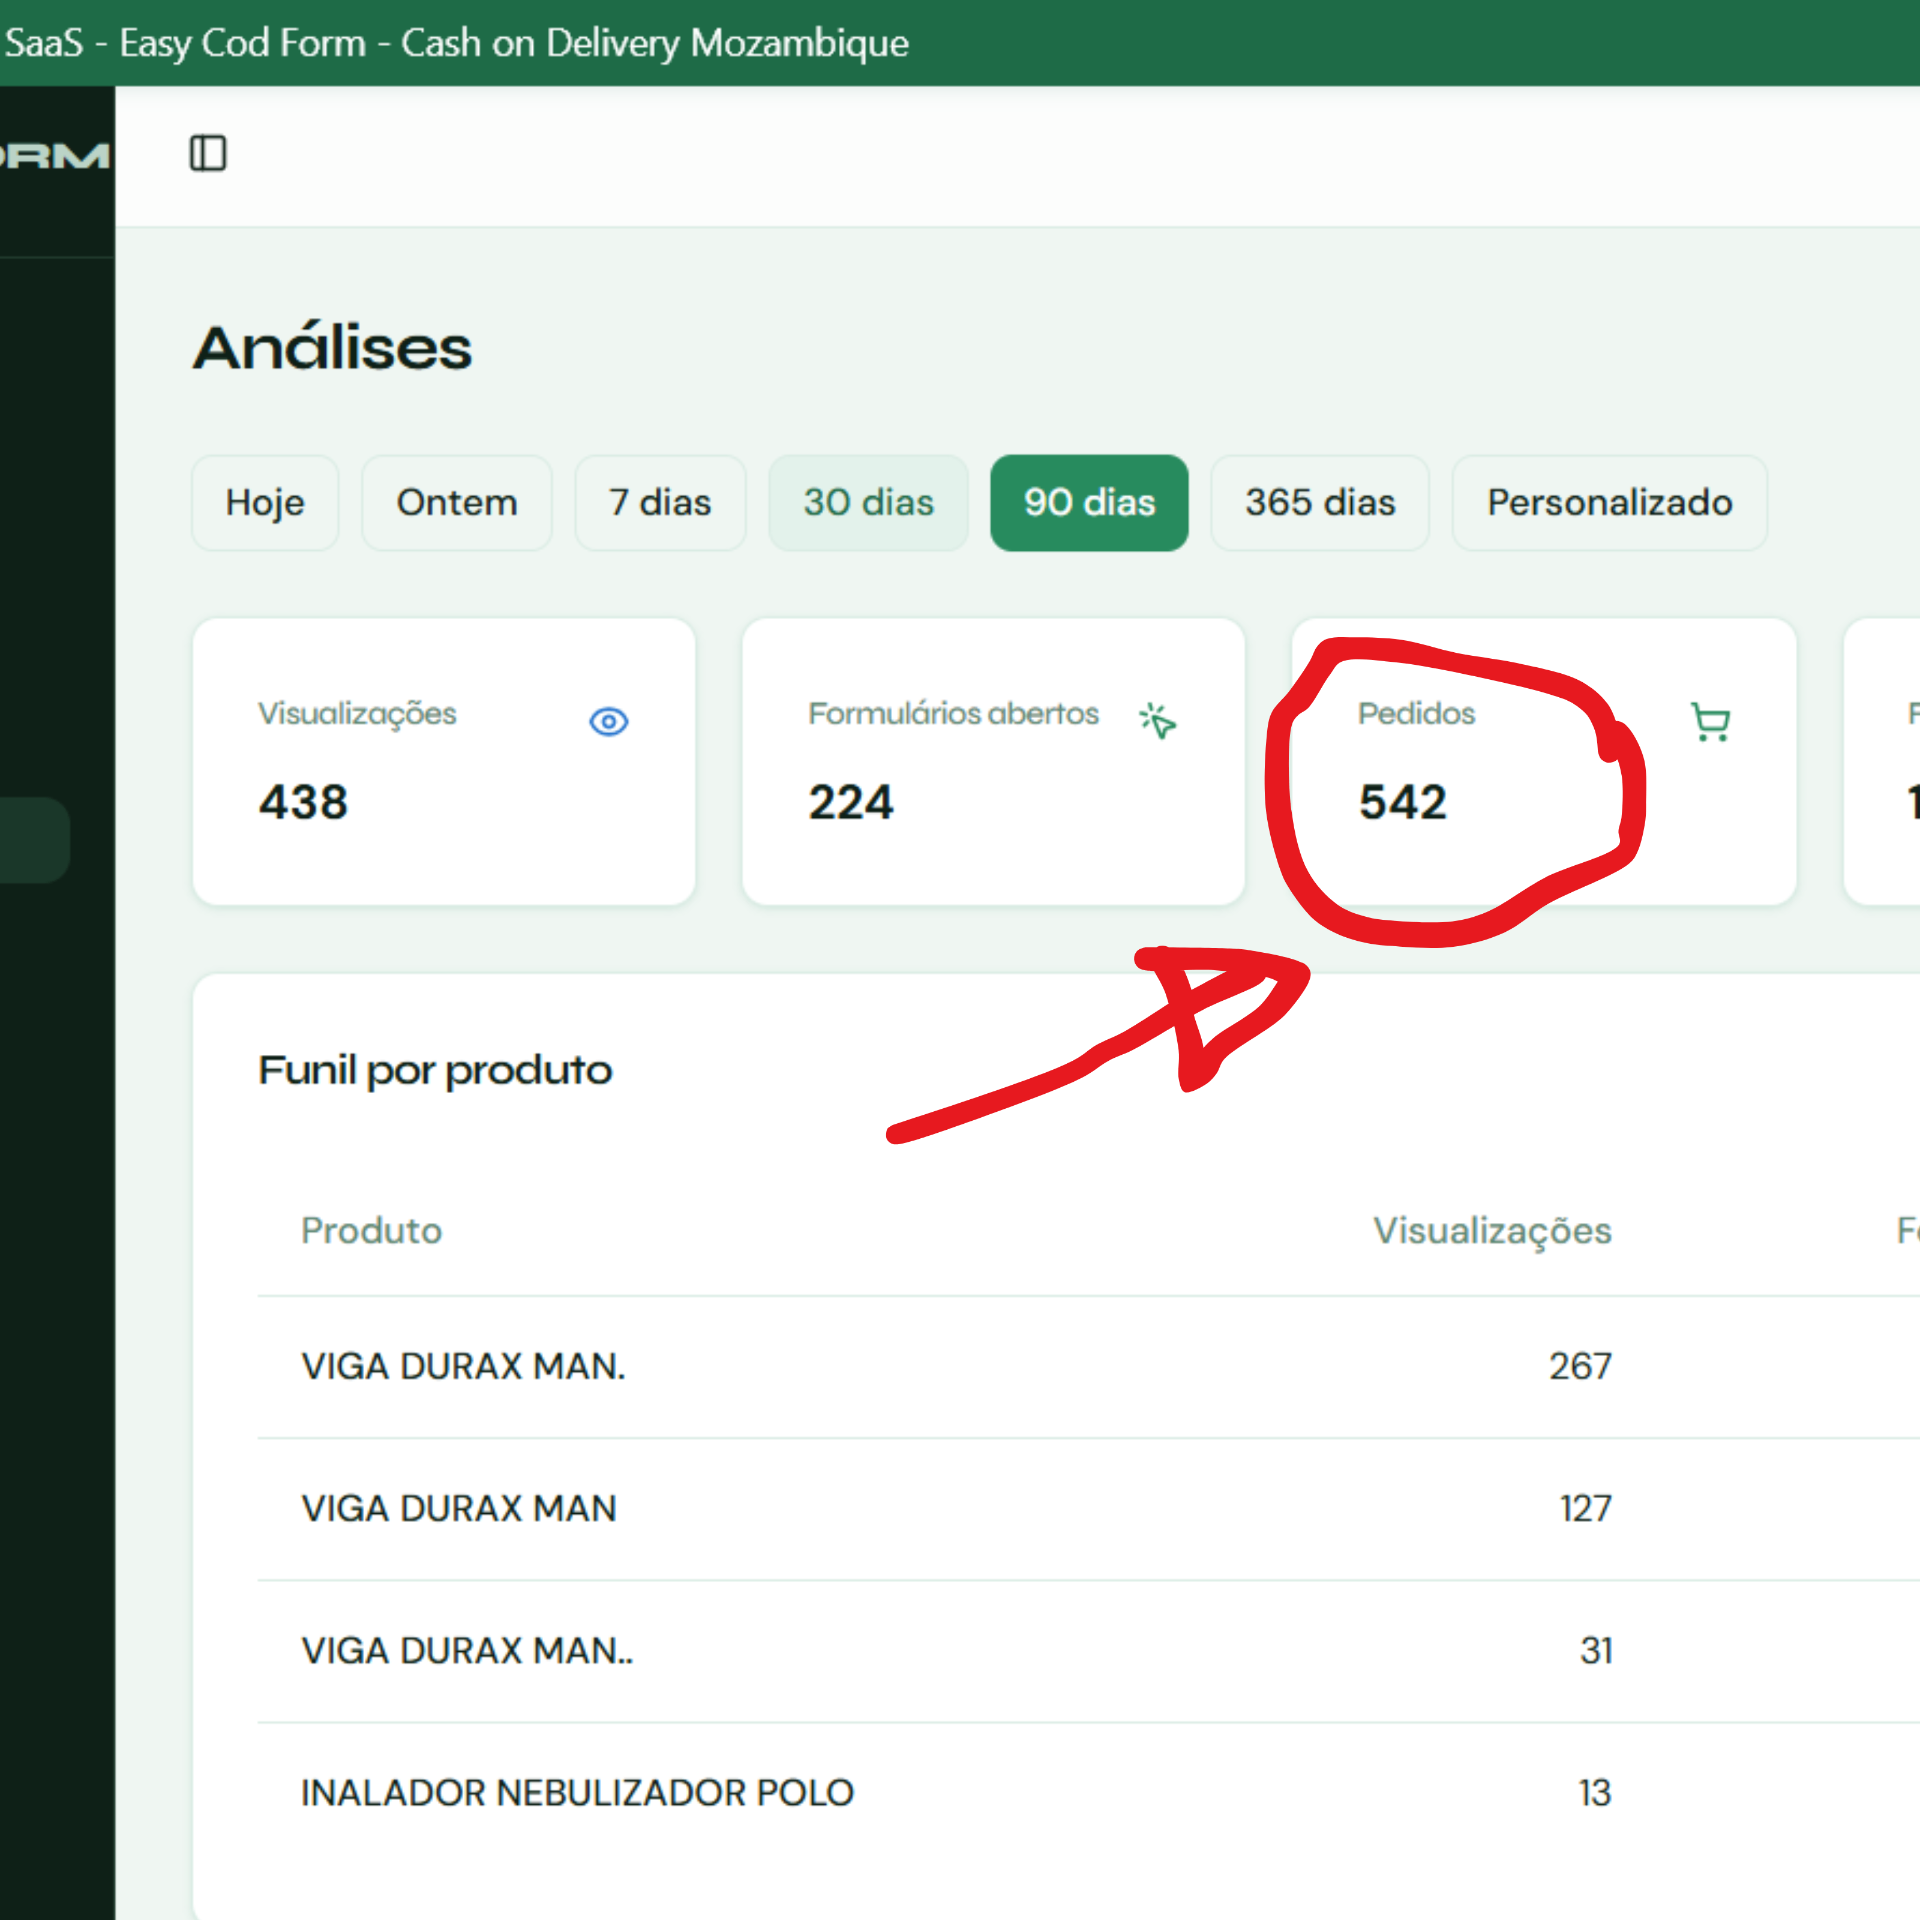
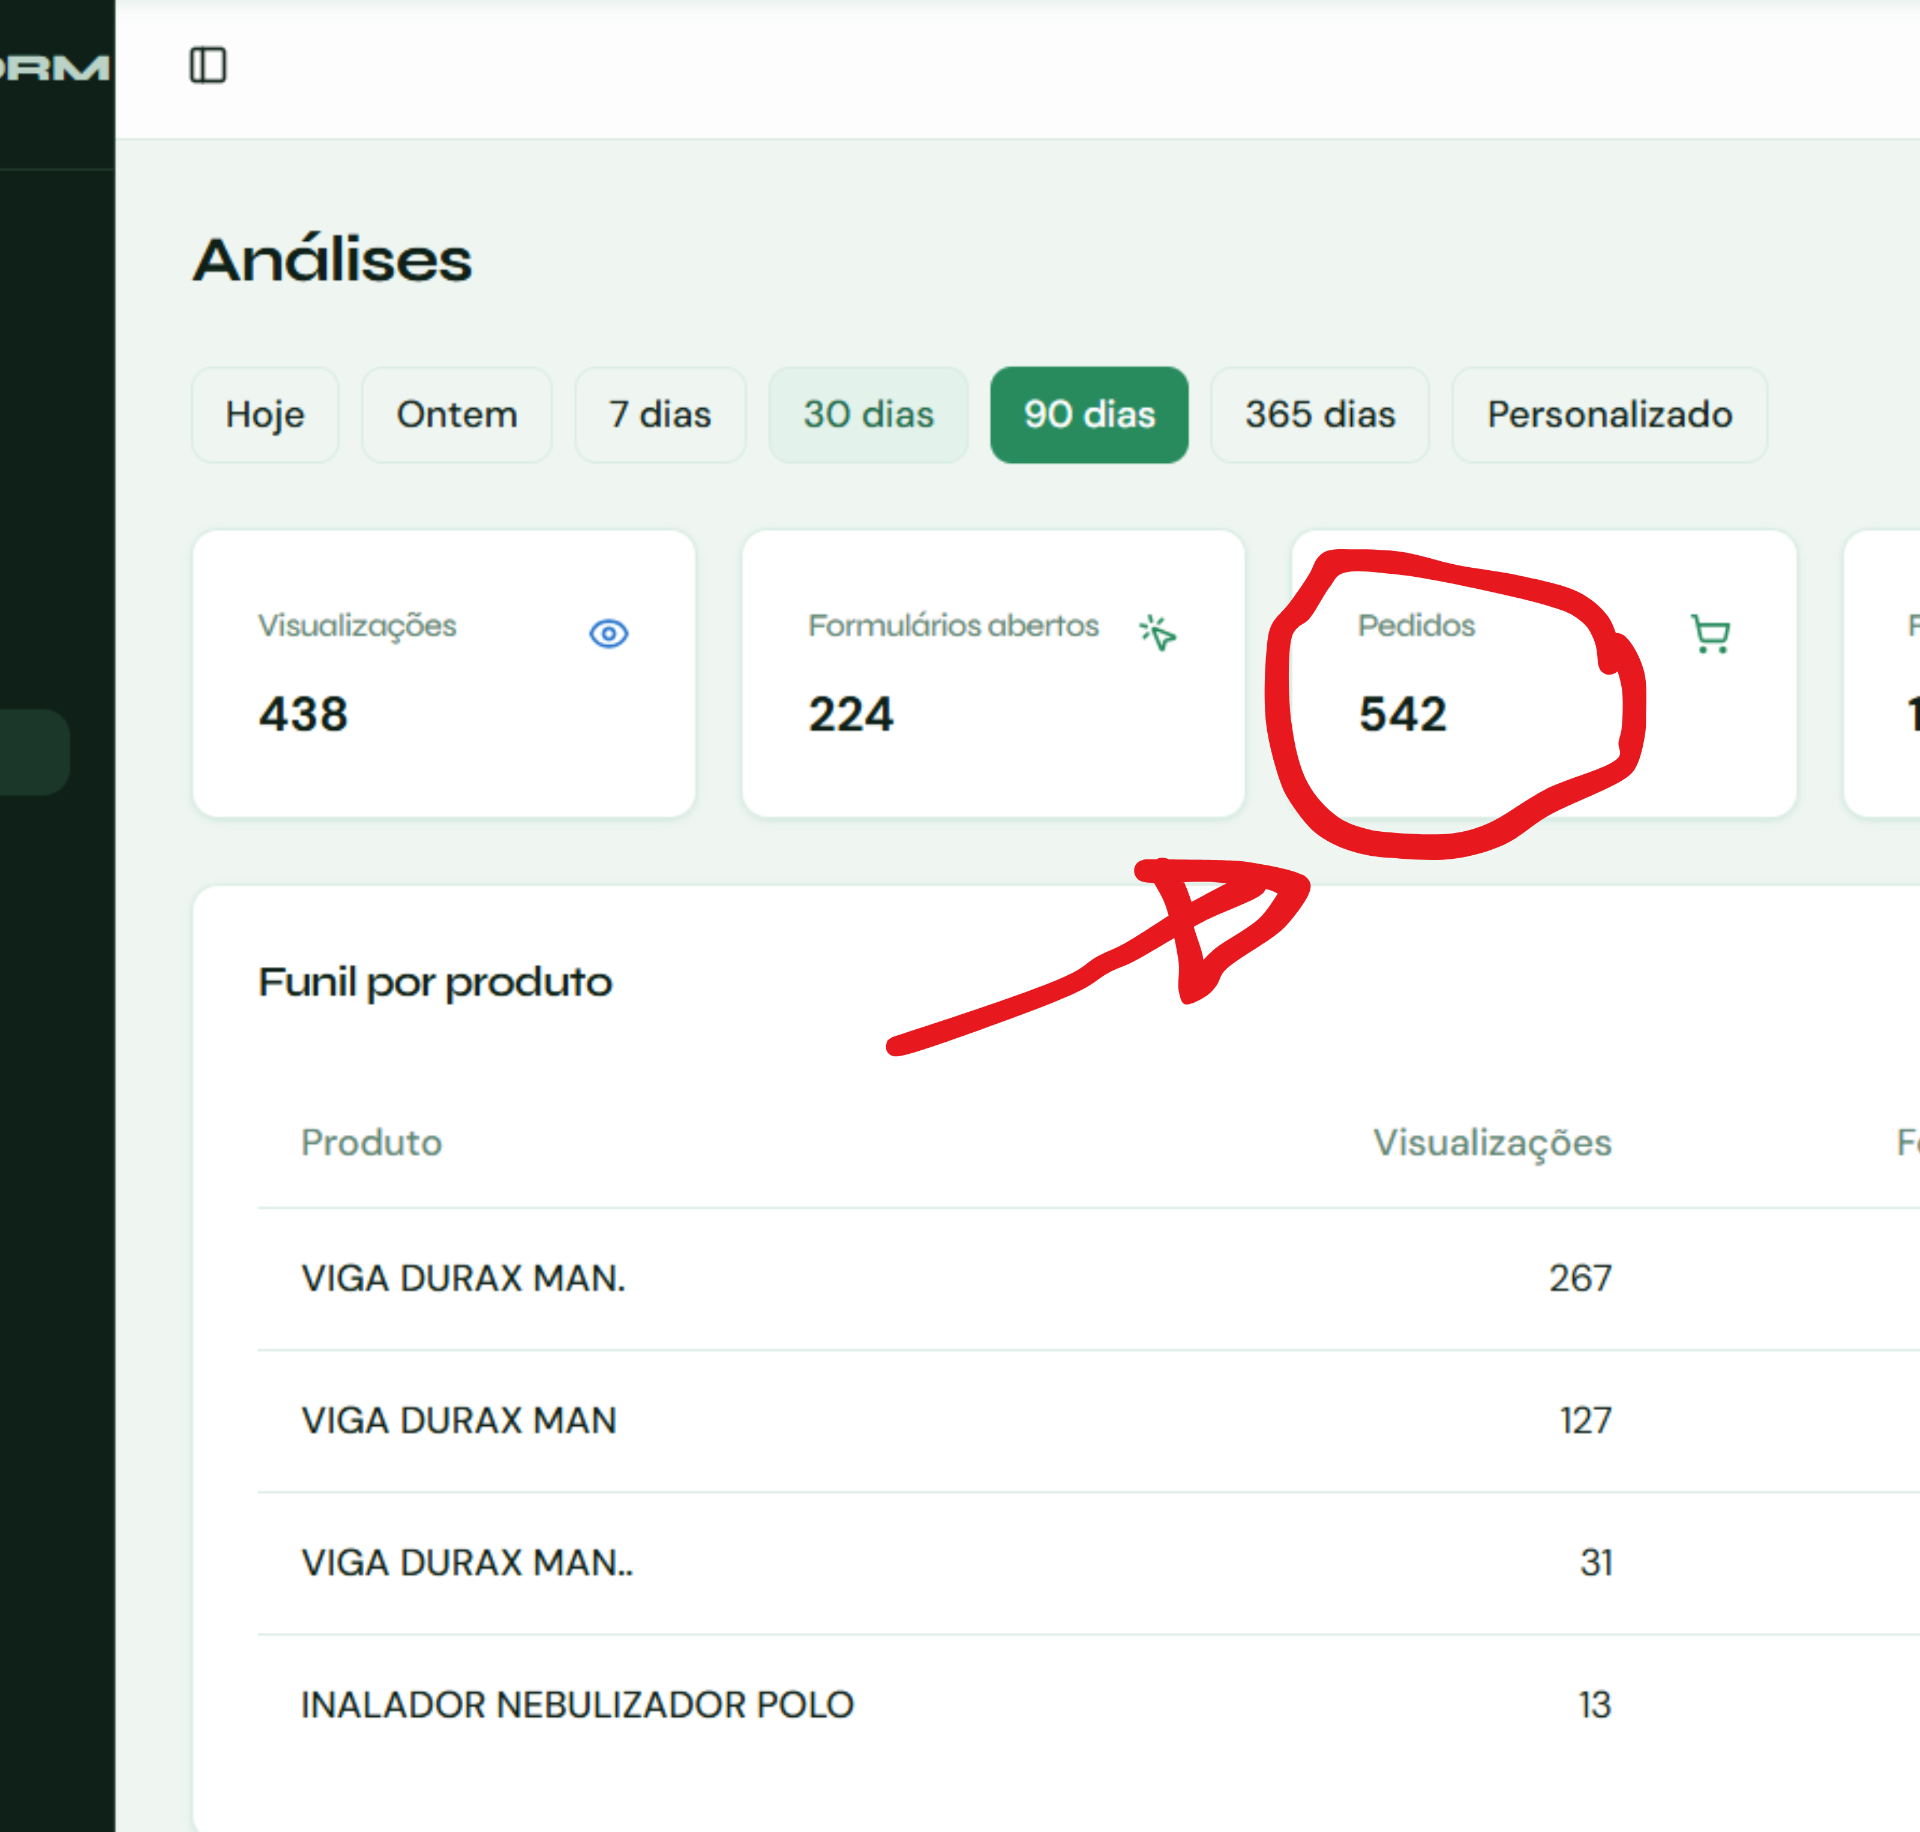
Add files via upload

diff --git a/index.html b/index.html
@@ -733,7 +733,58 @@ html { scroll-behavior: smooth; }
   .total-value { font-size: 22px; }
   .section { padding: 52px 18px; }
 }
-</style><div class="urgency-bar">🔥 Ofa inaisha baada ya <strong>24<!-- -->:<!-- -->00<!-- -->:<!-- -->00</strong> <span>· Kifurushi cha siri · Uwasilishaji saa 24</span></div><section class="hero"><div class="hero-glow" aria-hidden="true"></div><div class="container hero-inner"><div class="hero-eyebrow">★ Durax Man — Muda Mrefu kwa Wanaume</div><h1>Dumu <em>muda maradufu</em> — bila aibu,<br>bila visingizio, bila yeye <em>kujifanya</em> amefurahia.</h1><p class="hero-sub">Dawa ya kunyunyizia inayocheleweresha, hufanya kazi ndani ya <strong>dakika 3 hadi 5</strong>. Bila harufu. Bila mabaki. Yeye hatambui chochote — anahisi tu tofauti.<br><strong>Lipa sasa — tunakutumia bidhaa yako mara moja.</strong></p><div class="hero-product"><img src="images/vergonha.png" alt="Durax Man — badilisha hadithi yako" class="hero-vergonha"></div><div class="product-badge-row"><div class="product-badge"><span class="dot"></span> Hufanya kazi dakika 3-5</div><div class="product-badge"><span class="dot"></span> Bila harufu</div><div class="product-badge"><span class="dot"></span> Usafirishaji wa haraka</div></div><a href="#pedido" class="cta-btn">NATAKA DURAX MAN YANGU SASA →<span class="cta-sub">Lipa sasa — usafirishaji wa haraka</span></a><div class="cta-trust"><span>🔒 Malipo salama mtandaoni</span><span>📦 Kifurushi cha siri</span><span>🚚 Saa 24</span></div></div></section><section class="section"><div class="container"><div class="section-label">Unatambua hili?</div><h2>Mara ngapi <em>umemaliza</em> kabla yeye hajaanza?</h2><p>Si hasira usoni mwake. Ni <strong>ukimya</strong>. Nawe unajua barabara maana ya ukimya huo.</p><div class="pain-list"><div class="pain-item"><div class="pain-icon">😔</div><div><p><strong>Umemaliza ndani ya dakika 2. Tena.</strong>Uliangalia dari. Yeye aliangalia pembeni. Hakuna aliyesema chochote — na hilo liliuma kuliko yote.</p></div></div><div class="pain-item"><div class="pain-icon">😰</div><div><p><strong>Hofu kabla ya kila mara</strong>Si tamaa tena — ni wasiwasi. "Leo itaenda vizuri?" Na swali hilo peke yake linaharakisha kila kitu.</p></div></div><div class="pain-item"><div class="pain-icon">😶</div><div><p><strong>Yeye akijifanya amefurahia</strong>Lile "ilikuwa nzuri mpenzi" la haraka mno. Unajua haikuwa. Yeye anajua kuwa unajua. Na jambo linafia hapo.</p></div></div><div class="pain-item"><div class="pain-icon">🔍</div><div><p><strong>Umejaribu kila kitu</strong>Kuvuta pumzi ndefu, kufikiria kitu kingine, mbinu za mtandaoni, vidonge vya kutiliwa shaka. Ilifanya kazi mara moja — kisha ikarudi vile vile.</p></div></div></div><p>Tatizo si wewe. Ni kwamba <strong>hakuna aliyekufundisha kudhibiti muda</strong> — na mwili wako hufyatuka kabla ya akili yako kuamuru.</p></div></section><hr class="divider"><section class="section solution-section"><div class="container"><div class="section-label">Suluhisho la moja kwa moja</div><h2>Mpigo 1. Dakika 3-5. Wewe waamua lini inaisha.</h2><p><strong>Durax Man</strong> hudhibiti hisia — <strong>bila kufa ganzi</strong>, bila kupoteza raha. Unahisi kila kitu. Ila kwa udhibiti.</p><div class="solution-visual"><img src="images/viga-couple.png" alt="Wapenzi — muda wa faragha na Durax Man"></div><a href="#pedido" class="cta-btn cta-secondary">NATAKA KUSHTUA SASA →</a></div></section><hr class="divider"><section class="section how-section"><div class="container"><div class="section-label-gold">— RAHISI NA YENYE UFANISI —</div><h2 class="how-title">JINSI YA KUTUMIA <em>KWA HATUA 3</em></h2><div class="steps-grid"><div class="step-card"><div class="step-img"><img src="images/step-1.png" alt="Hatua 1 — Nyunyiza"></div><div class="step-num">1</div><h3>Nyunyiza</h3><p>Mipigo 2 hadi 3 ya dawa katika eneo sahihi, dakika 3 hadi 5 kabla ya kuanza show.</p></div><div class="step-card"><div class="step-img"><img src="images/step-2.png" alt="Hatua 2 — Subiri"></div><div class="step-num">2</div><h3>Subiri</h3><p>Subiri dakika 3 hadi 5 ili bidhaa ifanye kazi. Hunyonywa haraka na kwa siri.</p></div><div class="step-card"><div class="step-img"><img src="images/step-3.png" alt="Hatua 3 — Furahia"></div><div class="step-num">3</div><h3>Furahia</h3><p>Udhibiti kamili. Muda zaidi. Yeye ameridhika. Wewe una ujasiri. Rahisi hivyo.</p></div></div></div></section><hr class="divider"><section class="section"><div class="container benefits-center"><div class="section-label">Kinachobadilika kwako</div><h2>Kuanzia mpigo wa <em>kwanza</em></h2><div class="benefits-img"><img src="images/viga-hand.png" alt="Durax Man mkononi"></div><div class="benefits-grid"><div class="benefit-item"><div class="benefit-check">✓</div><p><strong>Unadumu maradufu</strong> — bila vidonge, bila madhara.</p></div><div class="benefit-item"><div class="benefit-check">✓</div><p><strong>Unahisi kila kitu</strong> — ila kwa udhibiti wa lini unamaliza.</p></div><div class="benefit-item"><div class="benefit-check">✓</div><p><strong>Yeye atauliza</strong> nini kimebadilika — nawe utatabasamu.</p></div><div class="benefit-item"><div class="benefit-check">✓</div><p><strong>Bila harufu, bila mabaki</strong> — yeye hatambui chochote.</p></div><div class="benefit-item"><div class="benefit-check">✓</div><p><strong>Ujasiri unarudi</strong> — kwaheri hofu kabla ya kila mara.</p></div><div class="benefit-item"><div class="benefit-check">✓</div><p><strong>Usafirishaji wa haraka</strong> — tunatuma mara tu baada ya malipo yako.</p></div></div></div></section><hr class="divider"><section class="section"><div class="container"><div class="section-label">Ushahidi halisi — si maneno matupu</div><h2>Mamia ya wanaume tayari <em>wameagiza</em></h2><p style="margin:0 auto 24px">Hii ni dashibodi halisi ya maagizo ya <strong>Durax Man</strong> katika siku 90 zilizopita.<strong> Maagizo 542</strong> yaliyothibitishwa. Wanaume wanaamini — na wanarudi.</p><div class="proof-img"><img src="images/painel-pedidos.png" alt="Dashibodi ya maagizo ya Durax Man — maagizo 542 yaliyothibitishwa"></div></div></section><hr class="divider"><section class="section"><div class="container"><div class="section-label">Wateja wanasemaje</div><h2>Wanaume halisi ambao <em>tayari wamebadilisha mchezo</em></h2><div class="testimonials"><div class="testimonial"><div class="wa-badge"><img src="images/whatsapp.png" alt="WhatsApp"> Ujumbe wa WhatsApp</div><div class="stars">★★★★★</div><p class="testimonial-text">"Yeah kila kitu tunachonunua, lakini lazima nikiri bidhaa ni nzuri kweli. Ni nadra kupata vitu vinavyofanya kazi... Hongereni nimependa hii kkkkk"</p><div class="testimonial-author">— M.A., Nairobi</div></div><div class="testimonial"><div class="wa-badge"><img src="images/whatsapp.png" alt="WhatsApp"> Ujumbe wa WhatsApp</div><div class="stars">★★★★★</div><p class="testimonial-text">"Ilifanya kazi mara ya kwanza kabisa. Nilitegemea iwe kama bidhaa nyingine zisizofanya lolote. Hii ni daraja lingine."</p><div class="testimonial-author">— J.C., Mombasa</div></div><div class="testimonial"><div class="wa-badge"><img src="images/whatsapp.png" alt="WhatsApp"> Ujumbe wa WhatsApp</div><div class="stars">★★★★★</div><p class="testimonial-text">"Bidhaa hii ni nzuri sana nimependa, kweli inadumu na jinsi inavyodumu... Nitawapendekezea mabro zangu pia!"</p><div class="testimonial-author">— R.M., Kisumu</div></div></div><p style="text-align:center;font-size:14px;margin:0 auto">Zaidi ya <strong style="color:var(--off-white)">wanaume 500</strong> nchini Kenya wameagiza mwezi huu.</p></div></section><section class="section offer-section" id="pedido"><div class="container"><div class="offer-hero"><img src="images/viga-duo.png" alt="Super Viga Spray — kifurushi kamili"></div><div class="section-label">Chagua ofa yako</div><h2>Kadiri unavyochukua zaidi, <em>ndivyo unavyookoa zaidi</em></h2><div class="countdown-box"><div class="countdown-label">⏰ Ofa inaisha baada ya</div><div class="countdown-timer"><div class="cd-unit"><span>24</span><small>SAA</small></div><div class="cd-sep">:</div><div class="cd-unit"><span>00</span><small>DAK</small></div><div class="cd-sep">:</div><div class="cd-unit"><span>00</span><small>SEK</small></div></div></div><div class="offers-grid"><div class="offer-card"><div class="offer-badge">★ PROMO — 2 KWA KES 200</div><div class="offer-title">KIFURUSHI MARADUFU</div><div class="offer-img"><img src="images/viga-duo.png" alt="Kifurushi Maradufu Durax Man"></div><div class="offer-units"><strong>VIPANDE 2</strong> DURAX MAN</div><div class="offer-price gold"><span style="text-decoration:line-through;color:var(--muted);font-size:28px;margin-right:12px;">KES 800</span>KES 200</div><div class="offer-save">✅ Ofa yenye kikomo — PROMO ya leo — badala ya KES 800!</div><a href="https://www.smoopay.app/pay/GV59SM3n" class="offer-cta gold-cta">NUNUA SASA →</a></div><div class="offer-card"><div class="offer-title gold-text">VIP KAMILI</div><div class="offer-img"><img src="images/viga-duo.png" alt="VIP Kamili Durax Man"></div><div class="offer-units"><strong>VIPANDE 4</strong> DURAX MAN<br><span class="vip-extra">+ Usafirishaji wa Kipaumbele Bure</span></div><div class="offer-price white"><span style="text-decoration:line-through;color:var(--muted);font-size:28px;margin-right:12px;">KES 1,200</span>KES 600</div><div class="offer-save">✅ Leva 4 DURAX kwa KES 600 tu!</div><a href="https://www.smoopay.app/pay/GV59SM3n" class="offer-cta dark-cta">NUNUA SASA →</a></div></div><div class="delivery-info">🚚 <strong>Uwasilishaji:</strong> ndani ya saa 24 hadi 72, kutegemea eneo lako</div><div class="guarantee-box" style="margin-top:28px"><div class="guarantee-icon">🛡️</div><div><h3>Malipo salama. Usafirishaji wa haraka.</h3><p>Unalipa kwa usalama mtandaoni wakati wa kuagiza. Mara malipo yanapothibitishwa, tunasafirisha bidhaa yako mara moja hadi anwani uliyotoa.</p></div></div></div></section><section class="section"><div class="container"><div class="section-label">Maswali yanayoulizwa mara kwa mara</div><h2>Una maswali? Hapa kuna majibu</h2><div class="faq-list"><div class="faq-item open"><button class="faq-q" aria-expanded="true"><span>Malipo yanafanyaje kazi?</span><span class="faq-toggle">−</span></button><div class="faq-a-wrap" style="max-height:300px"><div class="faq-a">Unalipa mtandaoni wakati wa kuagiza. Mara malipo yanapothibitishwa, tunasafirisha bidhaa yako mara moja hadi anwani uliyotoa.</div></div></div><div class="faq-item "><button class="faq-q" aria-expanded="false"><span>Muda wa uwasilishaji ni upi?</span><span class="faq-toggle">+</span></button><div class="faq-a-wrap" style="max-height:0"><div class="faq-a">Uwasilishaji ndani ya saa 24 hadi 72, kutegemea eneo lako.</div></div></div><div class="faq-item "><button class="faq-q" aria-expanded="false"><span>Je, kifurushi ni cha siri?</span><span class="faq-toggle">+</span></button><div class="faq-a-wrap" style="max-height:0"><div class="faq-a">Kabisa. Kisanduku cha nje hakionyeshi yaliyomo wala jina la bidhaa. Wewe tu ndiye unayejua kilichomo ndani.</div></div></div><div class="faq-item "><button class="faq-q" aria-expanded="false"><span>Je, atatambua kuwa nimetumia?</span><span class="faq-toggle">+</span></button><div class="faq-a-wrap" style="max-height:0"><div class="faq-a">Hapana. Bila harufu, bila mabaki, hunyonywa haraka. Unanyunyiza dakika 3-5 kabla — yeye hatambui chochote kabisa.</div></div></div><div class="faq-item "><button class="faq-q" aria-expanded="false"><span>Na kama haitafanya kazi?</span><span class="faq-toggle">+</span></button><div class="faq-a-wrap" style="max-height:0"><div class="faq-a">Wengi huhisi matokeo mara ya kwanza ya kunyunyiza. Fuata maelekezo kwa matokeo bora zaidi.</div></div></div><div class="faq-item "><button class="faq-q" aria-expanded="false"><span>Je, mnasafirisha Kenya kote?</span><span class="faq-toggle">+</span></button><div class="faq-a-wrap" style="max-height:0"><div class="faq-a">Ndio — Nairobi, Mombasa, Kisumu, Nakuru, Eldoret na kaunti nyingine zote.</div></div></div></div></div></section><section class="final-cta"><div class="container"><h2>Basi kumaliza mapema.<br><em>Wewe amua lini inaisha.</em></h2><p>Mpigo 1. Dakika 3-5. Wewe una udhibiti.<br>Lipa sasa na upokee bidhaa yako kwa haraka.</p><a href="#pedido" class="cta-btn" style="max-width:480px;display:inline-block">NATAKA DURAX MAN YANGU SASA →<span class="cta-sub">Malipo salama · Siri · Saa 24</span></a></div></section><footer class="footer"><div class="container"><p>© 2026 Durax Man · Haki zote zimehifadhiwa</p><p style="margin-top:6px">Kwa matumizi ya nje tu. Watu wazima +18.</p></div></footer></div><!--/$--><script type="module" async="">import("/assets/index-DcvImhEn.js")</script>
+</style><div class="urgency-bar">🔥 Ofa inaisha baada ya <strong>24<!-- -->:<!-- -->00<!-- -->:<!-- -->00</strong> <span>· Kifurushi cha siri · Uwasilishaji saa 24</span></div><section class="hero"><div class="hero-glow" aria-hidden="true"></div><div class="container hero-inner"><div class="hero-eyebrow">★ Durax Man — Muda Mrefu kwa Wanaume</div><h1>Dumu <em>muda maradufu</em> — bila aibu,<br>bila visingizio, bila yeye <em>kujifanya</em> amefurahia.</h1><p class="hero-sub">Dawa ya kunyunyizia inayocheleweresha, hufanya kazi ndani ya <strong>dakika 3 hadi 5</strong>. Bila harufu. Bila mabaki. Yeye hatambui chochote — anahisi tu tofauti.<br><strong>Lipa sasa — tunakutumia bidhaa yako mara moja.</strong></p><div class="hero-product"><img src="images/vergonha.png" alt="Durax Man — badilisha hadithi yako" class="hero-vergonha"></div><div class="product-badge-row"><div class="product-badge"><span class="dot"></span> Hufanya kazi dakika 3-5</div><div class="product-badge"><span class="dot"></span> Bila harufu</div><div class="product-badge"><span class="dot"></span> Usafirishaji wa haraka</div></div><a href="#pedido" class="cta-btn">NATAKA DURAX MAN YANGU SASA →<span class="cta-sub">Lipa sasa — usafirishaji wa haraka</span></a><div class="cta-trust"><span>🔒 Malipo salama mtandaoni</span><span>📦 Kifurushi cha siri</span><span>🚚 Saa 24</span></div></div></section><section class="section"><div class="container"><div class="section-label">Unatambua hili?</div><h2>Mara ngapi <em>umemaliza</em> kabla yeye hajaanza?</h2><p>Si hasira usoni mwake. Ni <strong>ukimya</strong>. Nawe unajua barabara maana ya ukimya huo.</p><div class="pain-list"><div class="pain-item"><div class="pain-icon">😔</div><div><p><strong>Umemaliza ndani ya dakika 2. Tena.</strong>Uliangalia dari. Yeye aliangalia pembeni. Hakuna aliyesema chochote — na hilo liliuma kuliko yote.</p></div></div><div class="pain-item"><div class="pain-icon">😰</div><div><p><strong>Hofu kabla ya kila mara</strong>Si tamaa tena — ni wasiwasi. "Leo itaenda vizuri?" Na swali hilo peke yake linaharakisha kila kitu.</p></div></div><div class="pain-item"><div class="pain-icon">😶</div><div><p><strong>Yeye akijifanya amefurahia</strong>Lile "ilikuwa nzuri mpenzi" la haraka mno. Unajua haikuwa. Yeye anajua kuwa unajua. Na jambo linafia hapo.</p></div></div><div class="pain-item"><div class="pain-icon">🔍</div><div><p><strong>Umejaribu kila kitu</strong>Kuvuta pumzi ndefu, kufikiria kitu kingine, mbinu za mtandaoni, vidonge vya kutiliwa shaka. Ilifanya kazi mara moja — kisha ikarudi vile vile.</p></div></div></div><p>Tatizo si wewe. Ni kwamba <strong>hakuna aliyekufundisha kudhibiti muda</strong> — na mwili wako hufyatuka kabla ya akili yako kuamuru.</p></div></section><hr class="divider"><section class="section solution-section"><div class="container"><div class="section-label">Suluhisho la moja kwa moja</div><h2>Mpigo 1. Dakika 3-5. Wewe waamua lini inaisha.</h2><p><strong>Durax Man</strong> hudhibiti hisia — <strong>bila kufa ganzi</strong>, bila kupoteza raha. Unahisi kila kitu. Ila kwa udhibiti.</p><div class="solution-visual"><img src="images/viga-couple.png" alt="Wapenzi — muda wa faragha na Durax Man"></div><a href="#pedido" class="cta-btn cta-secondary">NATAKA KUSHTUA SASA →</a></div></section><hr class="divider"><section class="section how-section"><div class="container"><div class="section-label-gold">— RAHISI NA YENYE UFANISI —</div><h2 class="how-title">JINSI YA KUTUMIA <em>KWA HATUA 3</em></h2><div class="steps-grid"><div class="step-card"><div class="step-img"><img src="images/step-1.png" alt="Hatua 1 — Nyunyiza"></div><div class="step-num">1</div><h3>Nyunyiza</h3><p>Mipigo 2 hadi 3 ya dawa katika eneo sahihi, dakika 3 hadi 5 kabla ya kuanza show.</p></div><div class="step-card"><div class="step-img"><img src="images/step-2.png" alt="Hatua 2 — Subiri"></div><div class="step-num">2</div><h3>Subiri</h3><p>Subiri dakika 3 hadi 5 ili bidhaa ifanye kazi. Hunyonywa haraka na kwa siri.</p></div><div class="step-card"><div class="step-img"><img src="images/step-3.png" alt="Hatua 3 — Furahia"></div><div class="step-num">3</div><h3>Furahia</h3><p>Udhibiti kamili. Muda zaidi. Yeye ameridhika. Wewe una ujasiri. Rahisi hivyo.</p></div></div></div></section><hr class="divider"><section class="section"><div class="container benefits-center"><div class="section-label">Kinachobadilika kwako</div><h2>Kuanzia mpigo wa <em>kwanza</em></h2><div class="benefits-img"><img src="images/viga-hand.png" alt="Durax Man mkononi"></div><div class="benefits-grid"><div class="benefit-item"><div class="benefit-check">✓</div><p><strong>Unadumu maradufu</strong> — bila vidonge, bila madhara.</p></div><div class="benefit-item"><div class="benefit-check">✓</div><p><strong>Unahisi kila kitu</strong> — ila kwa udhibiti wa lini unamaliza.</p></div><div class="benefit-item"><div class="benefit-check">✓</div><p><strong>Yeye atauliza</strong> nini kimebadilika — nawe utatabasamu.</p></div><div class="benefit-item"><div class="benefit-check">✓</div><p><strong>Bila harufu, bila mabaki</strong> — yeye hatambui chochote.</p></div><div class="benefit-item"><div class="benefit-check">✓</div><p><strong>Ujasiri unarudi</strong> — kwaheri hofu kabla ya kila mara.</p></div><div class="benefit-item"><div class="benefit-check">✓</div><p><strong>Usafirishaji wa haraka</strong> — tunatuma mara tu baada ya malipo yako.</p></div></div></div></section><hr class="divider"><section class="section"><div class="container"><div class="section-label">Ushahidi halisi — si maneno matupu</div><h2>Mamia ya wanaume tayari <em>wameagiza</em></h2><p style="margin:0 auto 24px">Hii ni dashibodi halisi ya maagizo ya <strong>Durax Man</strong> katika siku 90 zilizopita.<strong> Maagizo 542</strong> yaliyothibitishwa. Wanaume wanaamini — na wanarudi.</p><style>
+	.dash-shot{max-width:920px;margin:24px auto 0;border-radius:16px;overflow:hidden;border:1px solid var(--border);box-shadow:0 30px 80px -20px rgba(0,0,0,0.7);background:linear-gradient(180deg,#eef4f1,#e6efe9);text-align:left;font-family:-apple-system,BlinkMacSystemFont,'Segoe UI',Roboto,Helvetica,Arial,sans-serif}
+	.dash-bar{display:flex;align-items:center;gap:7px;background:#1c6b46;padding:11px 16px}
+	.dash-bar i{width:11px;height:11px;border-radius:50%;background:rgba(255,255,255,.35);display:inline-block}
+	.dash-bar span{margin-left:8px;color:#cfe6db;font-size:12px;font-weight:600;letter-spacing:.02em}
+	.dash-body{padding:24px 24px 28px}
+	.dash-h{font-size:30px;font-weight:800;color:#0f1e17;margin:0 0 18px;letter-spacing:-.01em}
+	.dash-chips{display:flex;flex-wrap:wrap;gap:10px;margin-bottom:22px}
+	.dash-chip{font-size:14px;font-weight:600;color:#2f4f42;background:#fff;border:1px solid #d7e5dd;border-radius:10px;padding:9px 16px}
+	.dash-chip.on{background:#16a34a;border-color:#16a34a;color:#fff}
+	.dash-cards{display:grid;grid-template-columns:repeat(3,1fr);gap:14px;margin-bottom:24px}
+	.dash-card{background:#fff;border:1px solid #e3ece7;border-radius:14px;padding:18px}
+	.dash-card .l{display:flex;justify-content:space-between;align-items:center;font-size:14px;color:#5b6b63;font-weight:600}
+	.dash-card .v{font-size:38px;font-weight:800;color:#0f1e17;margin-top:10px;line-height:1}
+	.dash-card.hot{border:2px solid #e10600;box-shadow:0 0 0 4px rgba(225,6,0,.12)}
+	.dash-card.hot .v{color:#e10600}
+	.dash-card .tag{display:inline-block;margin-top:10px;font-size:11px;font-weight:800;color:#16a34a;background:rgba(22,163,74,.12);padding:4px 9px;border-radius:6px}
+	.dash-sec{font-size:18px;font-weight:800;color:#0f1e17;margin:6px 0 12px}
+	.dash-tbl{background:#fff;border:1px solid #e3ece7;border-radius:12px;overflow:hidden}
+	.dash-tr{display:flex;justify-content:space-between;align-items:center;padding:15px 18px;border-bottom:1px solid #eef3f0;font-size:15px;color:#28382f}
+	.dash-tr:last-child{border-bottom:none}
+	.dash-tr.head{color:#7d8d84;font-weight:700;font-size:13px;text-transform:uppercase;letter-spacing:.04em;background:#f7faf8}
+	.dash-tr .n{font-weight:700;color:#0f1e17}
+	@media(max-width:680px){.dash-cards{grid-template-columns:1fr}.dash-h{font-size:24px}.dash-card .v{font-size:30px}}
+</style>
+<div class="dash-shot" role="img" aria-label="Dashibodi ya maagizo ya Durax Man — maagizo 542 yaliyothibitishwa">
+	<div class="dash-bar"><i></i><i></i><i></i><span>Dashibodi ya Maagizo</span></div>
+	<div class="dash-body">
+		<h3 class="dash-h">Uchambuzi</h3>
+		<div class="dash-chips">
+			<span class="dash-chip">Leo</span>
+			<span class="dash-chip">Jana</span>
+			<span class="dash-chip">Siku 7</span>
+			<span class="dash-chip">Siku 30</span>
+			<span class="dash-chip on">Siku 90</span>
+			<span class="dash-chip">Siku 365</span>
+			<span class="dash-chip">Maalum</span>
+		</div>
+		<div class="dash-cards">
+			<div class="dash-card"><div class="l">Mionekano <span>&#128065;</span></div><div class="v">438</div></div>
+			<div class="dash-card"><div class="l">Fomu zilizofunguliwa</div><div class="v">224</div></div>
+			<div class="dash-card hot"><div class="l">Maagizo <span>&#128722;</span></div><div class="v">542</div><span class="tag">&#9650; Yaliyothibitishwa</span></div>
+		</div>
+		<div class="dash-sec">Funeli kwa bidhaa</div>
+		<div class="dash-tbl">
+			<div class="dash-tr head"><span>Bidhaa</span><span>Mionekano</span></div>
+			<div class="dash-tr"><span>DURAX MAN</span><span class="n">267</span></div>
+			<div class="dash-tr"><span>DURAX MAN</span><span class="n">127</span></div>
+			<div class="dash-tr"><span>DURAX MAN</span><span class="n">31</span></div>
+		</div>
+	</div>
+</div></div></section><hr class="divider"><section class="section"><div class="container"><div class="section-label">Wateja wanasemaje</div><h2>Wanaume halisi ambao <em>tayari wamebadilisha mchezo</em></h2><div class="testimonials"><div class="testimonial"><div class="wa-badge"><img src="images/whatsapp.png" alt="WhatsApp"> Ujumbe wa WhatsApp</div><div class="stars">★★★★★</div><p class="testimonial-text">"Yeah kila kitu tunachonunua, lakini lazima nikiri bidhaa ni nzuri kweli. Ni nadra kupata vitu vinavyofanya kazi... Hongereni nimependa hii kkkkk"</p><div class="testimonial-author">— M.A., Nairobi</div></div><div class="testimonial"><div class="wa-badge"><img src="images/whatsapp.png" alt="WhatsApp"> Ujumbe wa WhatsApp</div><div class="stars">★★★★★</div><p class="testimonial-text">"Ilifanya kazi mara ya kwanza kabisa. Nilitegemea iwe kama bidhaa nyingine zisizofanya lolote. Hii ni daraja lingine."</p><div class="testimonial-author">— J.C., Mombasa</div></div><div class="testimonial"><div class="wa-badge"><img src="images/whatsapp.png" alt="WhatsApp"> Ujumbe wa WhatsApp</div><div class="stars">★★★★★</div><p class="testimonial-text">"Bidhaa hii ni nzuri sana nimependa, kweli inadumu na jinsi inavyodumu... Nitawapendekezea mabro zangu pia!"</p><div class="testimonial-author">— R.M., Kisumu</div></div></div><p style="text-align:center;font-size:14px;margin:0 auto">Zaidi ya <strong style="color:var(--off-white)">wanaume 500</strong> nchini Kenya wameagiza mwezi huu.</p></div></section><section class="section offer-section" id="pedido"><div class="container"><div class="offer-hero"><img src="images/viga-duo.png" alt="Super Viga Spray — kifurushi kamili"></div><div class="section-label">Chagua ofa yako</div><h2>Kadiri unavyochukua zaidi, <em>ndivyo unavyookoa zaidi</em></h2><div class="countdown-box"><div class="countdown-label">⏰ Ofa inaisha baada ya</div><div class="countdown-timer"><div class="cd-unit"><span>24</span><small>SAA</small></div><div class="cd-sep">:</div><div class="cd-unit"><span>00</span><small>DAK</small></div><div class="cd-sep">:</div><div class="cd-unit"><span>00</span><small>SEK</small></div></div></div><div class="offers-grid"><div class="offer-card"><div class="offer-badge">★ PROMO — 2 KWA KES 200</div><div class="offer-title">KIFURUSHI MARADUFU</div><div class="offer-img"><img src="images/viga-duo.png" alt="Kifurushi Maradufu Durax Man"></div><div class="offer-units"><strong>VIPANDE 2</strong> DURAX MAN</div><div class="offer-price gold"><span style="text-decoration:line-through;color:var(--muted);font-size:28px;margin-right:12px;">KES 800</span>KES 200</div><div class="offer-save">✅ Ofa yenye kikomo — PROMO ya leo — badala ya KES 800!</div><a href="https://www.smoopay.app/pay/GV59SM3n" class="offer-cta gold-cta">NUNUA SASA →</a></div><div class="offer-card"><div class="offer-title gold-text">VIP KAMILI</div><div class="offer-img"><img src="images/viga-duo.png" alt="VIP Kamili Durax Man"></div><div class="offer-units"><strong>VIPANDE 4</strong> DURAX MAN<br><span class="vip-extra">+ Usafirishaji wa Kipaumbele Bure</span></div><div class="offer-price white"><span style="text-decoration:line-through;color:var(--muted);font-size:28px;margin-right:12px;">KES 1,200</span>KES 600</div><div class="offer-save">✅ Leva 4 DURAX kwa KES 600 tu!</div><a href="https://www.smoopay.app/pay/GV59SM3n" class="offer-cta dark-cta">NUNUA SASA →</a></div></div><div class="delivery-info">🚚 <strong>Uwasilishaji:</strong> ndani ya saa 24 hadi 72, kutegemea eneo lako</div><div class="guarantee-box" style="margin-top:28px"><div class="guarantee-icon">🛡️</div><div><h3>Malipo salama. Usafirishaji wa haraka.</h3><p>Unalipa kwa usalama mtandaoni wakati wa kuagiza. Mara malipo yanapothibitishwa, tunasafirisha bidhaa yako mara moja hadi anwani uliyotoa.</p></div></div></div></section><section class="section"><div class="container"><div class="section-label">Maswali yanayoulizwa mara kwa mara</div><h2>Una maswali? Hapa kuna majibu</h2><div class="faq-list"><div class="faq-item open"><button class="faq-q" aria-expanded="true"><span>Malipo yanafanyaje kazi?</span><span class="faq-toggle">−</span></button><div class="faq-a-wrap" style="max-height:300px"><div class="faq-a">Unalipa mtandaoni wakati wa kuagiza. Mara malipo yanapothibitishwa, tunasafirisha bidhaa yako mara moja hadi anwani uliyotoa.</div></div></div><div class="faq-item "><button class="faq-q" aria-expanded="false"><span>Muda wa uwasilishaji ni upi?</span><span class="faq-toggle">+</span></button><div class="faq-a-wrap" style="max-height:0"><div class="faq-a">Uwasilishaji ndani ya saa 24 hadi 72, kutegemea eneo lako.</div></div></div><div class="faq-item "><button class="faq-q" aria-expanded="false"><span>Je, kifurushi ni cha siri?</span><span class="faq-toggle">+</span></button><div class="faq-a-wrap" style="max-height:0"><div class="faq-a">Kabisa. Kisanduku cha nje hakionyeshi yaliyomo wala jina la bidhaa. Wewe tu ndiye unayejua kilichomo ndani.</div></div></div><div class="faq-item "><button class="faq-q" aria-expanded="false"><span>Je, atatambua kuwa nimetumia?</span><span class="faq-toggle">+</span></button><div class="faq-a-wrap" style="max-height:0"><div class="faq-a">Hapana. Bila harufu, bila mabaki, hunyonywa haraka. Unanyunyiza dakika 3-5 kabla — yeye hatambui chochote kabisa.</div></div></div><div class="faq-item "><button class="faq-q" aria-expanded="false"><span>Na kama haitafanya kazi?</span><span class="faq-toggle">+</span></button><div class="faq-a-wrap" style="max-height:0"><div class="faq-a">Wengi huhisi matokeo mara ya kwanza ya kunyunyiza. Fuata maelekezo kwa matokeo bora zaidi.</div></div></div><div class="faq-item "><button class="faq-q" aria-expanded="false"><span>Je, mnasafirisha Kenya kote?</span><span class="faq-toggle">+</span></button><div class="faq-a-wrap" style="max-height:0"><div class="faq-a">Ndio — Nairobi, Mombasa, Kisumu, Nakuru, Eldoret na kaunti nyingine zote.</div></div></div></div></div></section><section class="final-cta"><div class="container"><h2>Basi kumaliza mapema.<br><em>Wewe amua lini inaisha.</em></h2><p>Mpigo 1. Dakika 3-5. Wewe una udhibiti.<br>Lipa sasa na upokee bidhaa yako kwa haraka.</p><a href="#pedido" class="cta-btn" style="max-width:480px;display:inline-block">NATAKA DURAX MAN YANGU SASA →<span class="cta-sub">Malipo salama · Siri · Saa 24</span></a></div></section><footer class="footer"><div class="container"><p>© 2026 Durax Man · Haki zote zimehifadhiwa</p><p style="margin-top:6px">Kwa matumizi ya nje tu. Watu wazima +18.</p></div></footer></div><!--/$--><script type="module" async="">import("/assets/index-DcvImhEn.js")</script>
 <aside id="lovable-badge" role="complementary" dir="ltr" lang="en" aria-label="Edit with Lovable">
 	<a id="lovable-badge-cta" target="_blank" href="https://lovable.dev/projects/b3bcd623-cc2e-4a07-877a-f2908e3891db?utm_source=lovable-badge" rel="noopener nofollow" aria-label="Edit with Lovable">
 		<span id="lovable-badge-text">Edit with</span>